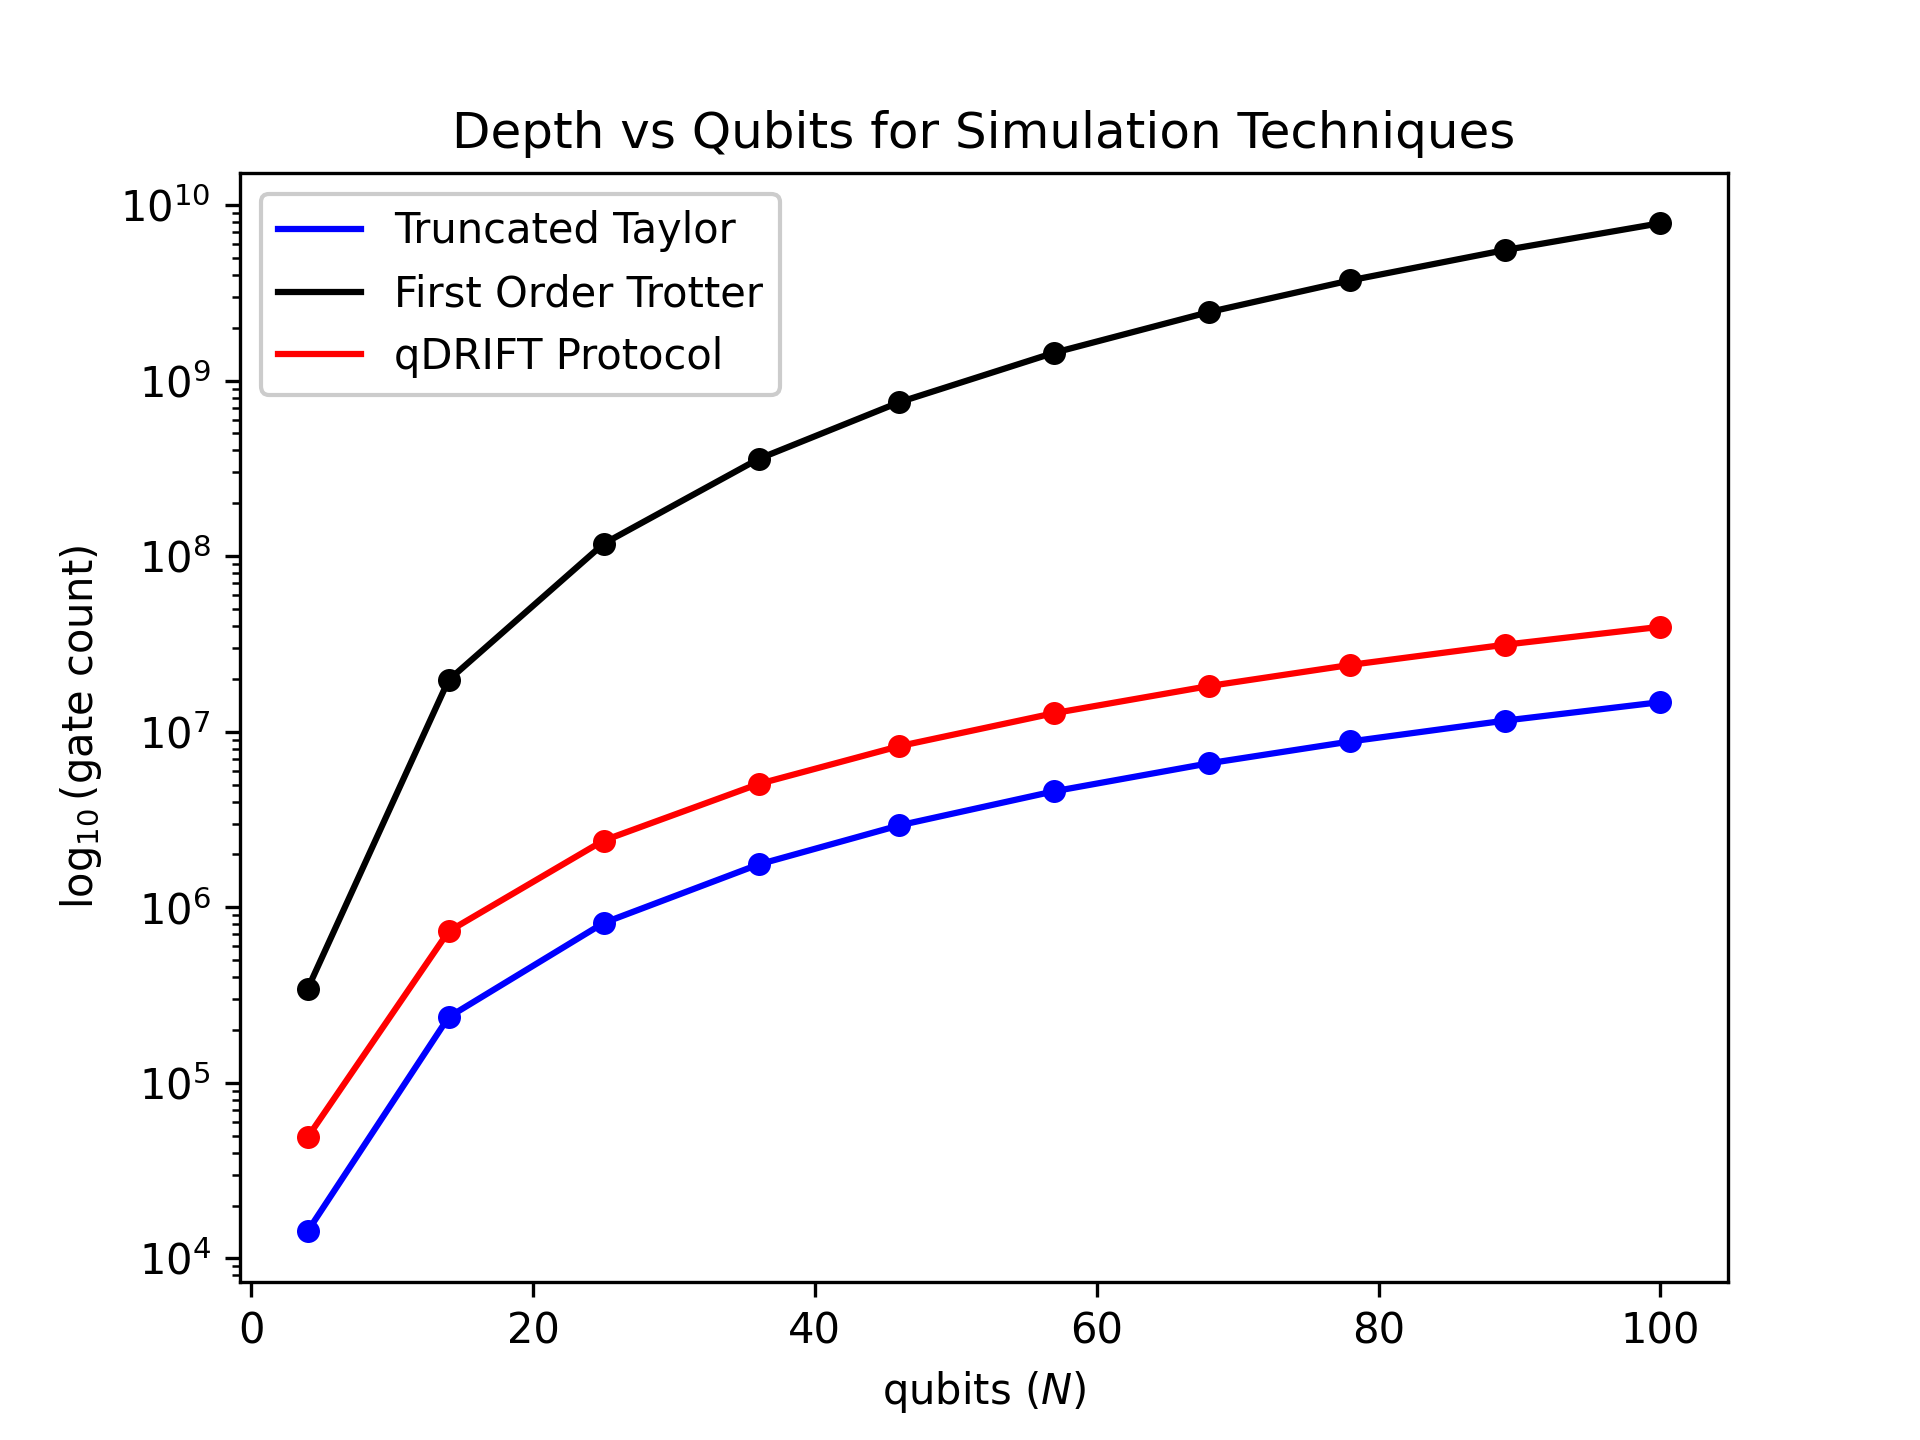
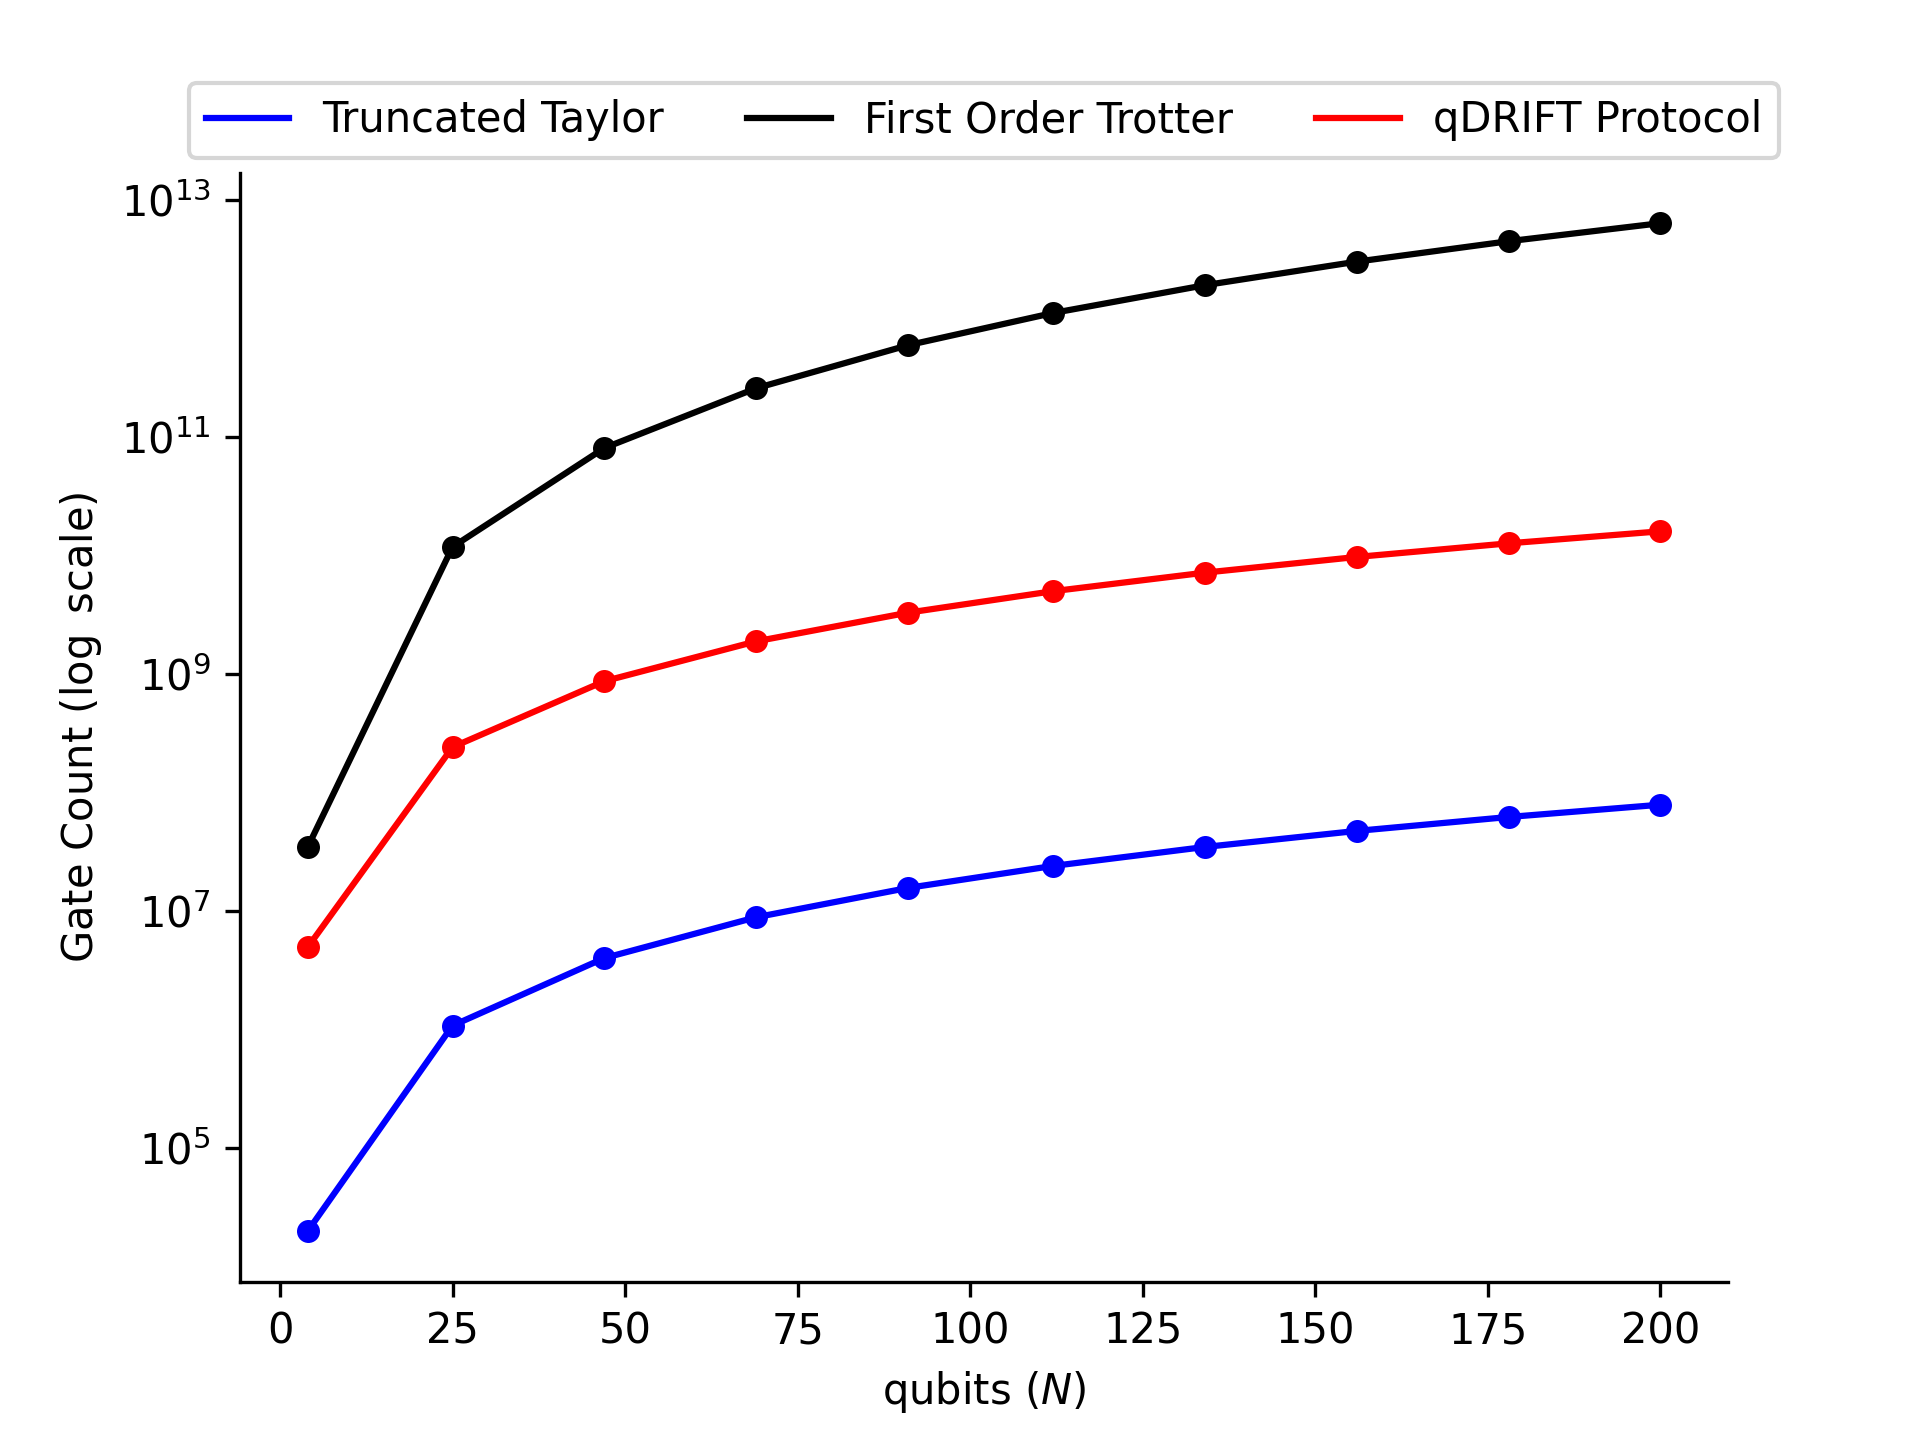
gate count vs qubits plot fixed

diff --git a/ising/benchmark/gate_qubit.py b/ising/benchmark/gate_qubit.py
@@ -44,15 +44,20 @@ def plot_gate_error(time, h_val, error, point_count, obs_norm, start_qubit, end_
 
         # ax.text(error_points[-1] * 2, results["taylor"][-1] * 1.6, f"t={time}")
 
+
+    # SETTING: AXIS VISIBILITY
+    ax.spines["top"].set_visible(False)
+    ax.spines["right"].set_visible(False)
+
     # ax.invert_xaxis()
     # ax.set_xscale("log")
     ax.set_yscale("log")
     ax.set_xlabel(r"$\text{qubits }(N)$")
-    ax.set_ylabel(r"$\log_{10}(\text{gate count})$")
+    ax.set_ylabel(r"Gate Count ($\log$ scale)")
 
-    ax.set_title("Depth vs Qubits for Simulation Techniques")
+    # ax.set_title("Depth vs Qubits for Simulation Techniques")
 
-    ax.legend(loc="upper left", framealpha=1)
+    plt.legend(loc="upper center", bbox_to_anchor=(0.5, 1.10), ncol=3, fontsize=10)
     # plt.legend()
     diagram_name = "plots/benchmark/gate_qubits.png"
     print(f"Saving diagram at:{diagram_name}")
@@ -62,7 +67,7 @@ def plot_gate_error(time, h_val, error, point_count, obs_norm, start_qubit, end_
 if __name__ == "__main__":
     time = 10
     h_val = 1
-    start_qubit, end_qubit = 4, 100
+    start_qubit, end_qubit = 4, 200
     point_count = 10
     obs_norm = 1
     error = 1e-3

diff --git a/ising/plotter/groundstate/magnetization.py b/ising/plotter/groundstate/magnetization.py
@@ -19,7 +19,7 @@ METHOD_NAMES = {
     "gs_qdrift": "qDRIFT Protocol",
     "exact": "Precise Unitaries",
     "taylor_sample": "Truncated Taylor Series Samples",
-    "taylor_single": "Truncated Taylor Series Optimized",
+    "taylor_single": "Truncated Taylor Series",
 }
 
 
